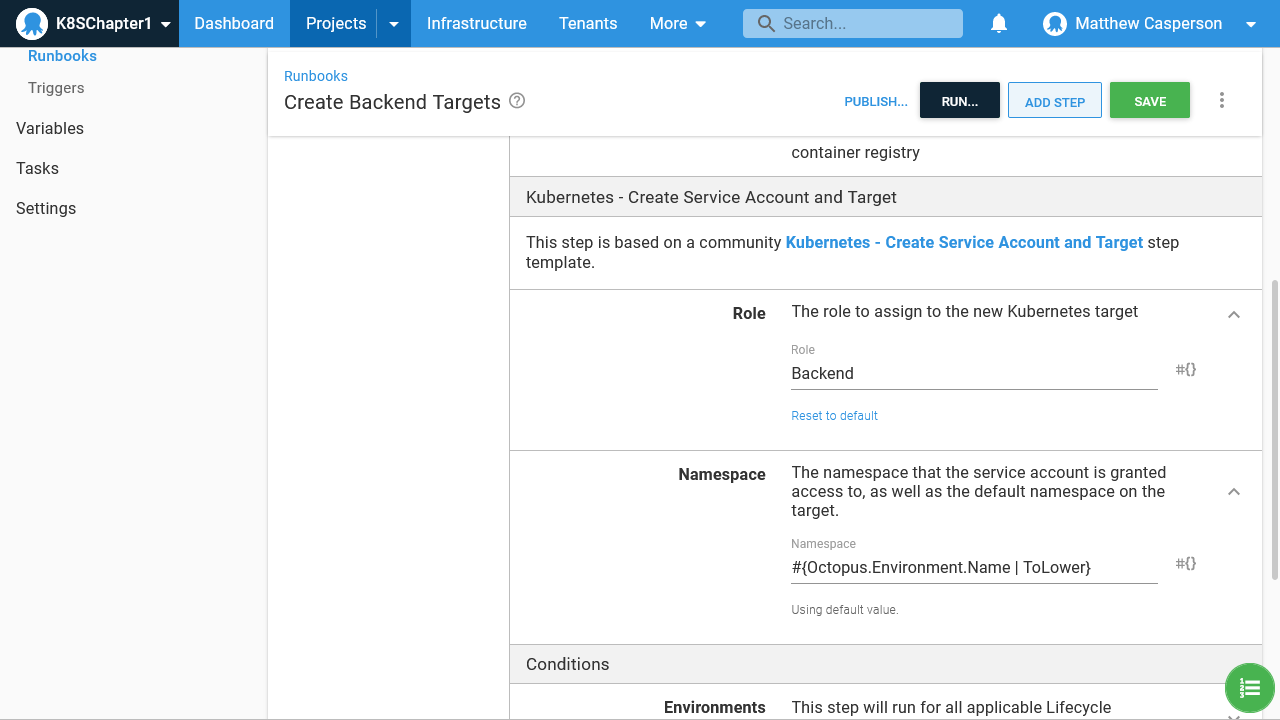
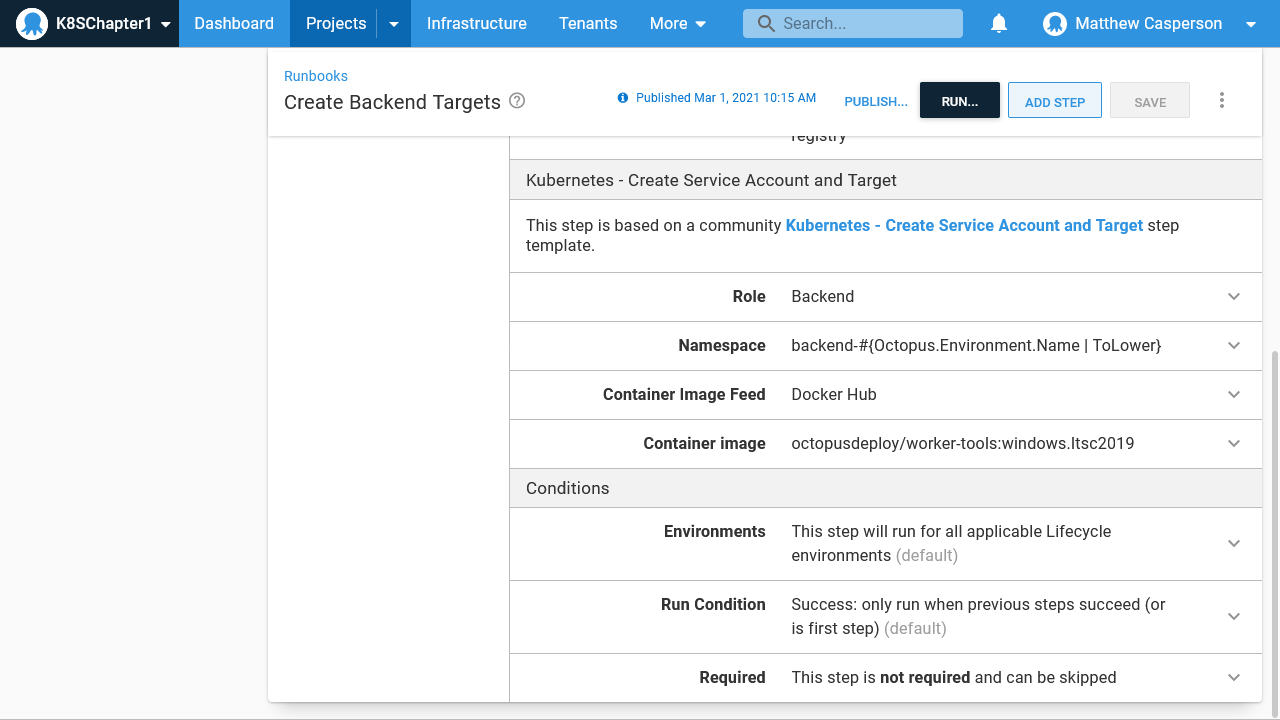
Scopted the db variable, updated the create targets community step template

diff --git a/_includes/chapter1.html b/_includes/chapter1.html
@@ -217,7 +217,7 @@
 	Kubernetes deployments in Octopus are performed via a Kubernetes target. Targets capture the details of the Kubernetes cluster, the credentials, and the default namespace in which deployments are performed.
 </p>
 <p>
-	It is best to think about Kubernetes targets as security boundaries in which a deployment is performed. By creating a target configured with a Kubernetes account that only has the permissions to deploy into a single namespace, we can be sure that deployments performed via that target wil not accidentally modify resources in another namespace.
+	It is best to think about Kubernetes targets as security boundaries in which a deployment is performed. By creating a target configured with a Kubernetes account that only has the permissions to deploy into a single namespace, we can be sure that deployments performed via that target wil not accidentally modify resources in another namespace. This is especially important where a single Kubernetes cluster hosts multiple environments, and we want to guarantee that deployments to the <b>Development</b> environment can not affect the <b>Test</b> or <b>Production</b> environments.
 </p>
 <p>
 	At this point though we only have administrative access to our cluster. We could perform all deployments to our cluster with these administrative credentials, but doing so is not considered best practice. Instead, we need to use our administrative credentials to create additional accounts that only have access to a single namespace representing the application and environment being deployed. To do this we'll start by creating an administrative Kubernetes target.
@@ -422,8 +422,14 @@
 </p>
 <div><img alt="Execution settings" src="images/octopus/common-admin-settings.png"/></div>
 <p>
-	The step then prompts for two settings: the role name to assign to our new Octopus target, and the Kubernetes namespace that the target can deploy into. We'll set the role to <b>Backend</b> and set the namespace to <b>backend-#{Octopus.Environment.Name | ToLower}</b>:
+	The step then prompts for four settings:
 </p>
+<ul>
+	<li>The role name to assign to our new Octopus target, set to <b>Backend</b>.</li>
+	<li>The Kubernetes namespace that the target can deploy into, set to <b>backend-#{Octopus.Environment.Name | ToLower}</b>.</li>
+	<li>The feed that hosts the health check container image, set to <b>Docker Hub</b>.</li>
+	<li>The health check docker image, set to <b>octopusdeploy/worker-tools:windows.ltsc2019</b>.</li>
+</ul>
 <p class="note">
     The syntax starting with a hash and curly bracket and ending with a curly bracket is an Octopus variable expression. It will resolve the system variable called <b>Octopus.Environment.Name</b>, and then pass it through the <b>ToLower</b> filter to change the characters to lowercase. This way an Octopus environment with capital letters like <b>Development</b> is transformed into a lowercase string called <b>development</b> that is suitable for the name of a Kubernetes namespace.
 </p>
@@ -478,6 +484,22 @@
 	To create a new variable set, open <b>Library -> Variable Sets</b>, and click the <b>ADD NEW VARIABLE SET</b> button. Give the variable set the name of <b>Random Quotes</b>. Under the <b>Variables</b> tab, add a new variable called <b>DatabasePassword</b>, configure the value to be a secret, and enter a suitable password as the value:
 </p>
 <div><img alt="Random Quotes variable set" src="images/octopus/variable-set.png"/></div>
+<p>
+	By default this variable is unscoped, meaning each environment will share a single password. This is not ideal, as our production infrastructure should not have the same credentials as our development infrastructure.
+</p>
+<p>
+	Click the define scope field to present a drop down listing all the dimensions that a variable can be scoped against. Under the <b>Select environments</b> drop down list, select the <b>Development</b> environment.
+</p>
+<p>
+	We now need unique passwords for the <b>Test</b> and <b>Production</b> environments. Click the hamburger menu next to the variable and select the <b>Add Value</b> option. Our variable now displays two values. Enter a new password, and scope the new value to the <b>Test</b> environment.
+</p>
+<p>
+	Add a third unique password scoped to the <b>Production</b> environment. We now have unique password for each environment:
+</p>
+<div><img alt="Random Quotes variable set" src="images/octopus/scoped-db-passwords.png"/></div>
+<p>
+	Scoped variables allow us to build a deployment process referencing the single variable called <b>DatabasePassword</b>, and Octopus will take care of exposing the correct variable value at deployment time depending on where the deployment is taking place.
+</p>
 <h3>Creating the backend database deployment process</h3>
 <p>
 	Our first deployment project will deploy the backend PostgreSQL database. Click <b>Projects -> ADD PROJECT</b> to create a new project. Give the new project the name of <b>Random Quotes - Backend</b>, and click the <b>Save</b> button. Click the <b>DEFINE YOUR DEPLOYMENT PROCESS</b> button to be taken to the process editor, and then click the <b>ADD STEP</b> button to add the first step to the deployment process.
@@ -514,6 +536,16 @@
 </p>
 <p class="note">
     The value of <b>#{DatabasePassword}</b> references the variable we defined in the variable set earlier. We will link this variable set to the project once the deployment process is saved.
+</p>
+<p>
+	As we move through this book we'll be deploying more applications connecting directly to the database. To accommodate this we need to increase the number of connections Postgres will accept. This is done via a custom command argument. Under the <b>Command</b> section, expand the <b>Command arguments</b> section, and enter the following text:
+</p>
+<pre>
+-c
+max_connections=200
+</pre>
+<p class="note">
+	Normally when passing commands through a shell like Bash or PowerShell, individual arguments are separated with spaces. Or, when a space is found in an argument, the argument is wrapped in quotes. This means quotes have special meaning to Bash and PowerShell. The <b>Command arguments</b> text box treats each new line as a single argument, and quotes and spaces have no special meaning here. The arguments above are equivalent to running <b>postgres -c max_connections=200</b> from a command line.
 </p>
 <p>
 	Click the <b>OK</b> button to save the container. The top level form will display a summary of the container settings:
